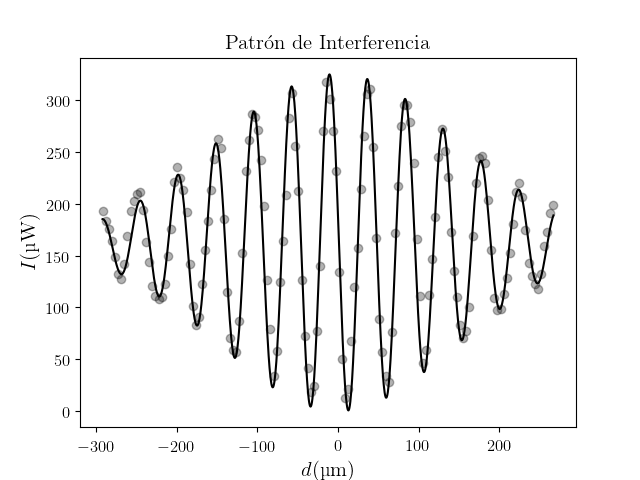
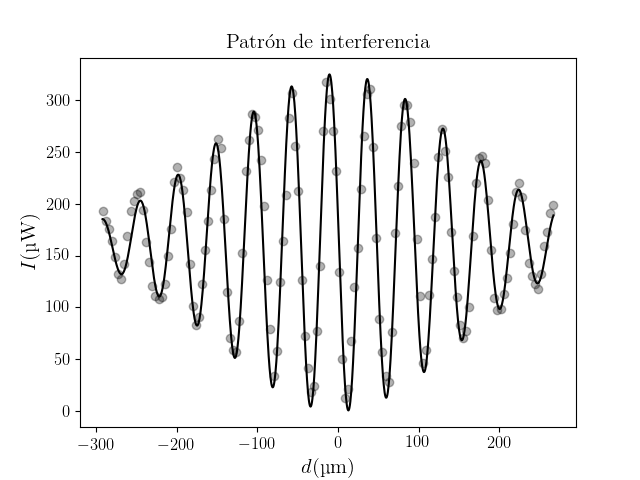
se realizan simulaciones

diff --git a/Laboratorio Avanzado/TBD/simulacion.py b/Laboratorio Avanzado/TBD/simulacion.py
@@ -1,0 +1,81 @@
+import numpy as np
+from uncertainties import ufloat
+import matplotlib.pyplot as plt
+from mpl_toolkits.mplot3d import Axes3D
+
+plt.rc("text", usetex = True)
+plt.rc("text.latex", preamble = r"\usepackage[utf8]{inputenc} \usepackage{siunitx} \usepackage[version = 4]{mhchem} \usepackage{physics}")
+plt.rc("font", **{"family": "serif", "serif": ["Computer Modern"]})
+
+#Se definen los parametros experimentales
+
+#Polarización
+alpha = 1/np.sqrt(2) 
+beta = 1/np.sqrt(2)
+
+#Datos interferencia
+w = ufloat(294, 8)
+q_0 = ufloat(0.0668,1)
+phi = ufloat(1.4,6) 
+
+#Se definen las matrices de Pauli
+sx = np.array([[0, 1],[ 1, 0]])
+sy = np.array([[0, -1j],[1j, 0]])
+sz = np.array([[1, 0],[0, -1]])
+
+#Se definen los parametros de una esfera. Estos se toman de https://stackoverflow.com/questions/31768031/plotting-points-on-the-surface-of-a-sphere-in-pythons-matplotlib
+r = 1
+pi = np.pi
+cos = np.cos
+sin = np.sin
+varphi, theta = np.mgrid[0.0:pi:100j, 0.0:2.0*pi:100j]
+x = r*sin(varphi)*cos(theta)
+y = r*sin(varphi)*sin(theta)
+z = r*cos(varphi)
+
+#Se define el rango de distancias con las que se hará la simulación (en unidades de micrometros/w)
+d_max = 300
+N = 1000
+d = np.linspace (0, d_max, N)
+
+#Se define el operador densidad
+rho = np.array([[[np.abs(alpha)**2, alpha*np.conj(beta)*np.exp(-2*d_c**2/(w.nominal_value**2))*np.exp(1j*(d_c*q_0.nominal_value+phi.nominal_value))],[np.conj(alpha)*beta*np.exp(-2*d_c**2/(w.nominal_value**2))*np.exp(-1j*(d_c*q_0.nominal_value+phi.nominal_value)), np.abs(beta)**2]] for d_c in d])
+
+#Se definen los parametros de Stokes
+S = np.array([[np.trace(R @ sx), np.trace(R @ sy), np.trace(R @ sz)] for R in rho])
+print(S)
+
+#Se define la pureza
+P = (1+(np.abs(alpha)**2-np.abs(beta)**2)+4*np.abs(alpha*np.conj(beta))**2*np.exp(-4*d**2/(w.nominal_value**2)))/2
+
+#Se grafica en la bola de Bloch
+fig = plt.figure()
+ax = fig.add_subplot(111, projection = "3d")
+ax.plot_surface(x, y, z,  rstride=1, cstride=1, color="c", alpha=0.3, linewidth=0)
+ax.plot(S[:,0], S[:,1], S[:,2], c = "k")
+ax.set_xlim([-1,1])
+ax.set_ylim([-1,1])
+ax.set_zlim([-1,1])
+ax.set_xticks([-1, 0, 1])
+ax.set_yticks([-1, 0, 1])
+ax.set_zticks([-1, 0, 1])
+for t in ax.xaxis.get_major_ticks(): t.label.set_fontsize(12)
+for t in ax.yaxis.get_major_ticks(): t.label.set_fontsize(12)
+for t in ax.zaxis.get_major_ticks(): t.label.set_fontsize(12)
+ax.set_xlabel(r"$S_1$", fontsize = 15)
+ax.set_ylabel(r"$S_2$", fontsize = 15)
+ax.set_zlabel(r"$S_3$", fontsize = 15)
+ax.set_aspect("equal")
+ax.set_title("Estado en la esfera de Bloch", fontsize = 15)
+fig.savefig("esfera.png")
+plt.close(fig)
+
+#Se hace la gráfica
+fig, ax = plt.subplots()
+ax.plot(d, P, c = "k")
+ax.set_xlabel(r"$d(\si{\micro\meter})$", fontsize = 15)
+ax.set_ylabel(r"$P$", fontsize = 15)
+ax.set_title(r"Simulaci\'on de pureza", fontsize = 15)
+ax.tick_params(labelsize = 12)
+fig.savefig("pureza.png")
+plt.close(fig)

diff --git a/Laboratorio Avanzado/TBD/interferencia_distances.py b/Laboratorio Avanzado/TBD/interferencia_distances.py
@@ -15,14 +15,14 @@ data[:,0] = (70.955968+57.606900)*data[:,0]-(28.513237+42.203264)
 
 distances = np.linspace(np.min(data[:,0]),np.max(data[:,0]),1000)
 popt, pcov = curve_fit(I, data[:,0], data[:,1], p0 = [40, np.max(data[:,1]), np.sqrt(100000), 0.065, np.pi])
-print("[offset, I_0, w, q, phi]= ",popt)
+print("[offset, I_0, w, q, phi]= ",popt," con incertidumbres ",np.sqrt(np.diag(pcov)))
 
 fig, ax = plt.subplots()
 ax.scatter(data[:,0]-popt[0], data[:,1], c = "k", alpha = 0.3)
 ax.plot(distances-popt[0], I(distances, *popt), c = "k")
 ax.set_xlabel(r"$d(\si{\micro\meter})$", fontsize = 15)
 ax.set_ylabel(r"$I(\si{\micro\watt})$", fontsize = 15)
-ax.set_title(r"Patr\'on de Interferencia", fontsize = 15)
+ax.set_title(r"Patr\'on de interferencia", fontsize = 15)
 ax.tick_params(labelsize = 12)
 fig.savefig("interferencia_distances.png")
 plt.close(fig)
